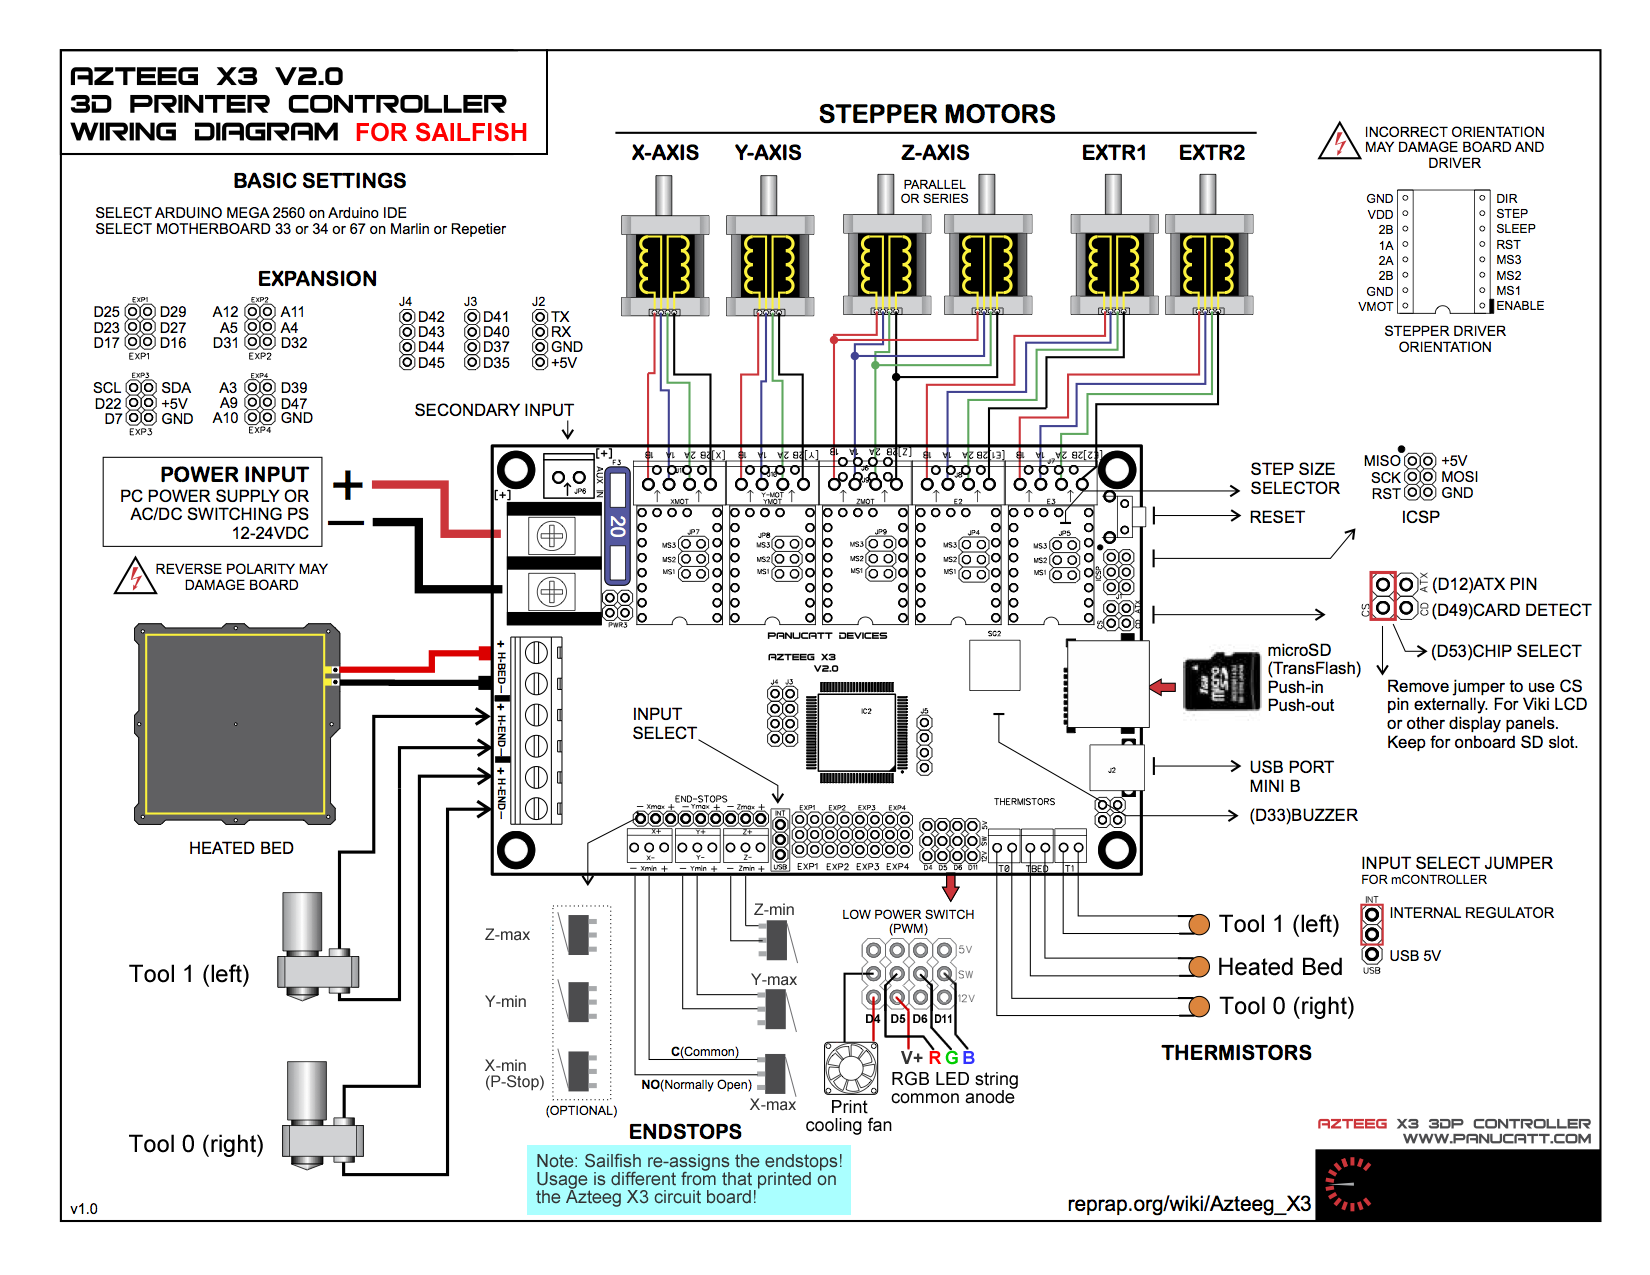
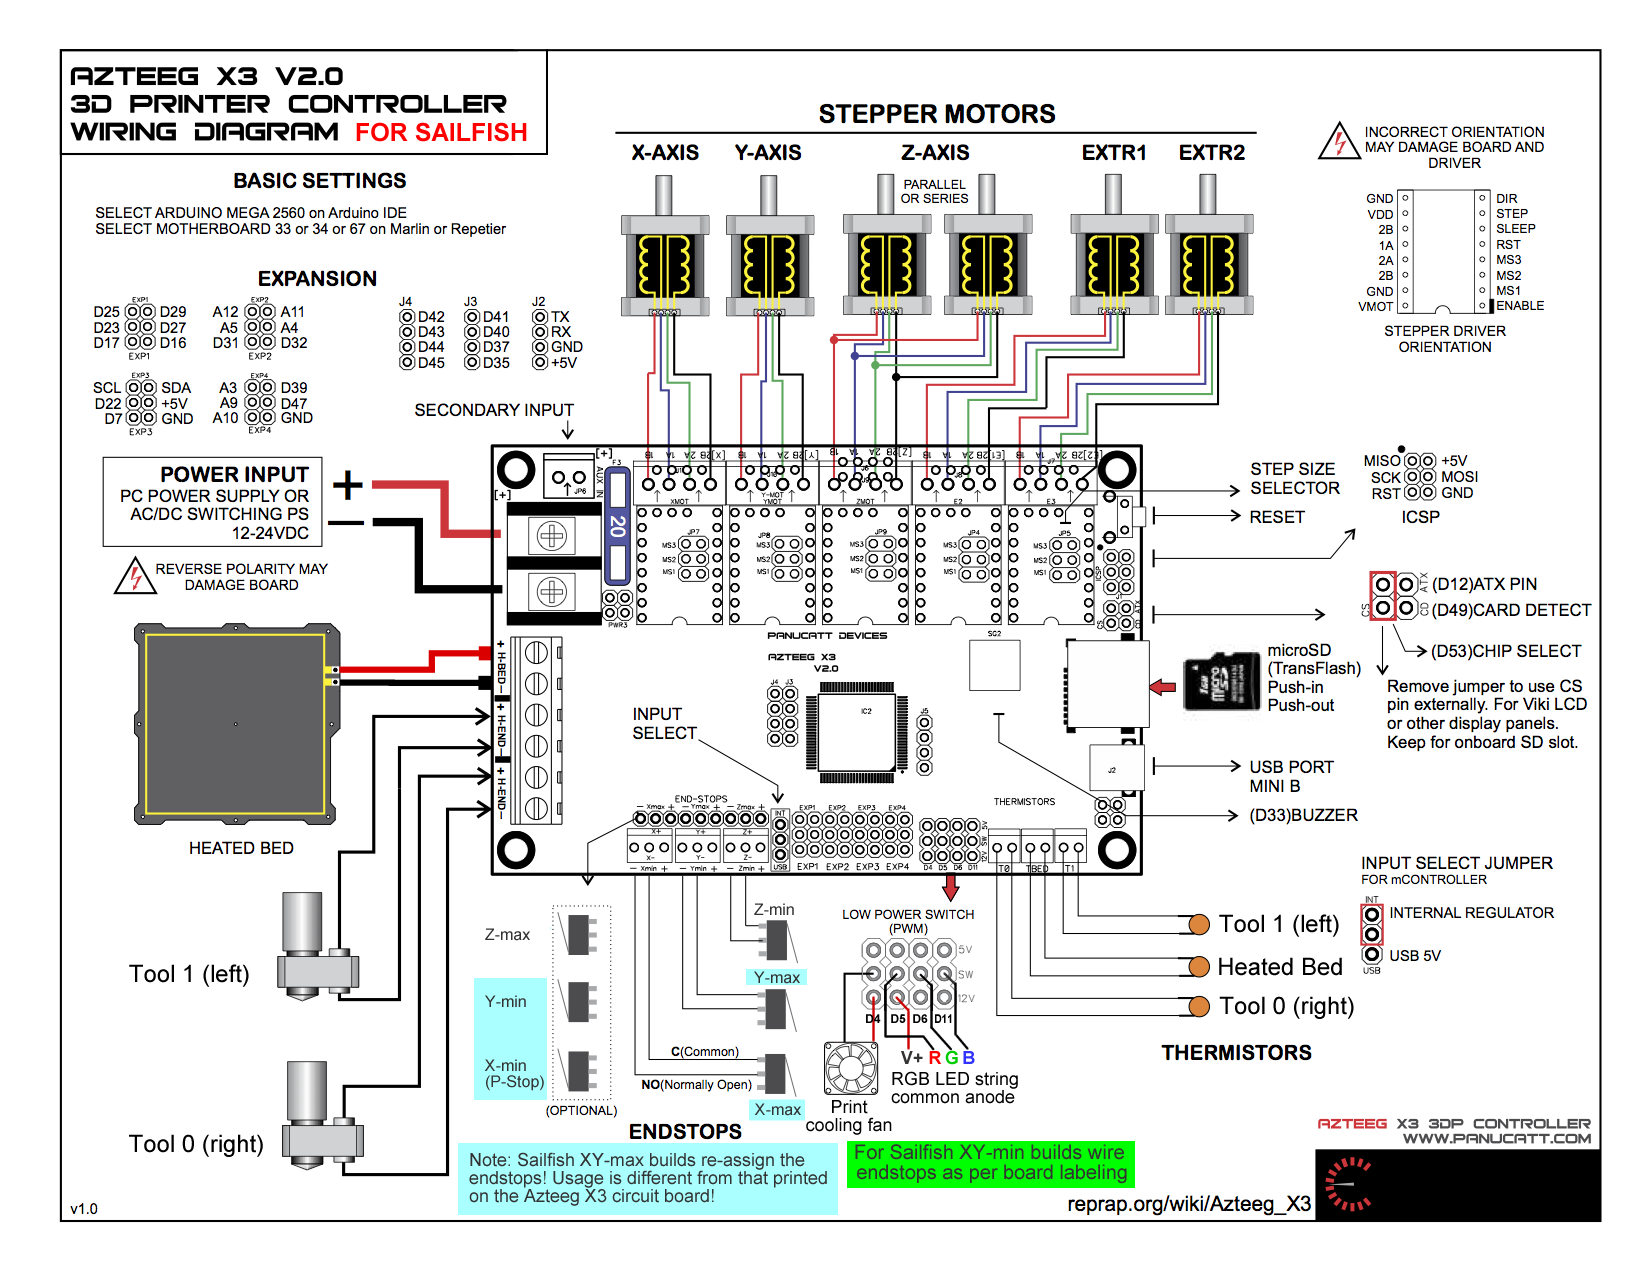
Update docs for XY-min builds

Changed region(s): [[0.2782, 0.7647, 0.7109, 0.9788], [0.4636, 0.7341, 0.4945, 0.7953]]

diff --git a/docs/azteeg-x3/azteeg_x3_v2.0.md b/docs/azteeg-x3/azteeg_x3_v2.0.md
@@ -97,6 +97,25 @@ particulars from the "standard" Azteeg X3 V2.0 wiring diagrams.
 ![x3_v2_wiring-1](x3_v2_wiring-1.png "Main board wiring")
 ![x3_v2_wiring-2](x3_v2_wiring-2.png "Cover board wiring")
 
+* Endstops: XY-min Sailfish builds
+	* All endstops wired as per the Azteeg silkscreen.
+	* By default the endstops are assumed HIGH when inactive and LOW when
+	triggered.  This can be changed via RepG's "Onboard Preferences".
+
+* Endstops: XY-max Sailfish builds
+	* Z minimum and Z maximum are as per the Azteeg silkscreen.
+	* Since many MakerBot style printers use X and Y maximum homing but
+	the Azteeg only provides terminals for minimum endstops, Sailfish
+	switches the min and max endstops for X and Y.  To hook up X and Y max
+	endstops, connect to the "Xmin"" and "Ymin" terminals on the Azteeg.
+	* By default the endstops are assumed HIGH when inactive and LOW when
+	triggered.  This can be changed via RepG's "Onboard Preferences".
+
+* Pause Stop switch (P-Stop, optional):
+	* For either builds, XY-min or XY-max, wire the P-Stop to the
+	position silkscreened as "Xmax" on the Azteeg X3 board.
+	* P-Stop switches default to activating when they go LOW.
+
 * Motor wiring
     * Wire as you normally would.
     * ReplicatorG 40 - Sailfish has options in the "Onboard Preferences"
@@ -141,15 +160,6 @@ particulars from the "standard" Azteeg X3 V2.0 wiring diagrams.
     [Section 3.7.4.8](http://www.sailfishfirmware.com/doc/ui-utilities-menu.html#x17-360003.7.4.8)
     of the Sailfish documentation. Power cycle the printer after changing
 	this setting.
-
-* Endstops
-	* Z minimum and Z maximum are as per the Azteeg silkscreen.
-	* Since many MakerBot style printers use X and Y maximum homing but
-	the Azteeg only provides terminals for minimum endstops, Sailfish
-	switches the min and max endstops for X and Y.  To hook up X and Y max
-	endstops, connect to the X-min and Y-min terminals on the Azteeg.
-	* By default the endstops are assumed HIGH when inactive and LOW when
-	triggered.  This can be changed via RepG's "Onboard Preferences".
 	
 * Print cooling fan (optional)
 	* Connect to D4 column of "LOW POWER SWITCH (PWM)" terminals.  Note
@@ -180,6 +190,19 @@ particulars from the "standard" Azteeg X3 V2.0 wiring diagrams.
 
 
 ## Installing Sailfish
+Before installing Sailfish, decide if you will be using XY-min homing or
+XY-max homing.  While all endstops are "live" in Sailfish, there are biases
+compiled in to Sailfish:
+
+* Homing and leveling scripts biased to either XY-min or XY-max homing
+* Default X and Y home positions set to either (0,0) for XY-min or
+ large, positive values aimed at Replicator 1 style printers.
+* When the build platform is cleared for a "cancel" or "pause" operation,
+ it is moved to the home positions _plus_ 5mm for XY-min homing or moved
+ to the home positions _less_ 5mm for XY-max homing.  Having a pause do
+ the wrong thing will cause a loss of registrating and inability to
+ successfully restart the print.
+
 To install Sailfish, refer to the [Installing Sailfish documentation](http://www.sailfishfirmware.com/doc/install-installing.html).
 However, since the Azteeg port Sailfish is still in beta test, you must
 provide ReplicatorG with a different download URL,
